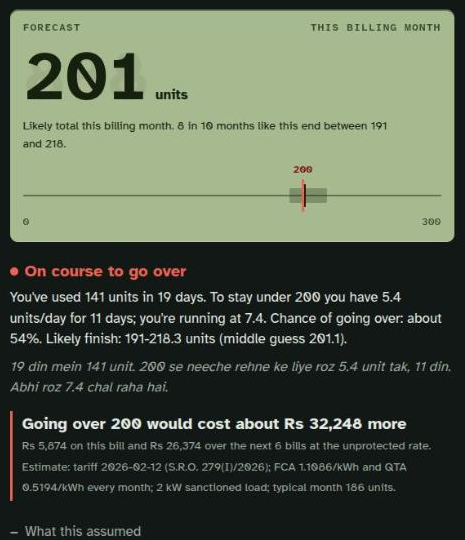
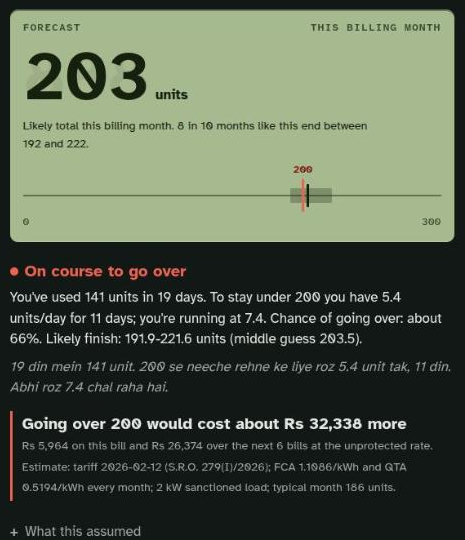
results: live Render check with keys (blend forecast, Gemma photo, refusal, bill photo); new screenshots

diff --git a/docs/EVIDENCE.md b/docs/EVIDENCE.md
@@ -6,8 +6,8 @@ Rule: a category is declared only if its artifact exists. Numbers only from file
 |---|---|---|---|
 | TabPFN | `docs/RESULTS.md` (all 41 homes incl. `tabpfn_api`); pre-registered test in `docs/PROTOCOL-RESULTS.md`, `results/protocol-test.json` | `backtest --models naive,last_ratio,gbm,tabpfn_api`; `protocol --final` | done |
 | Session replay | `docs/SESSION.md`; `results/session-aggregate.json` (65 test-home cycles near 200, dev-only model); `results/session-api.json` (one cycle through `/api/forecast`) | `python scripts/replay_session.py aggregate` / `api URL` | done (replay of real PRECON homes, not a live family) |
-| TabPFN (live) | Screenshot of the deployed page with the calibrated blend band | Render env `FORECAST_BACKEND=blend` | pending (Render) |
-| Render | https://slabwatch-ojcn.onrender.com; `render.yaml`; `/healthz` screenshot; `results/render-check-20261025.json` (wake-up 32.9 s) | Blueprint deploy | live (backend `gbm`, no secrets yet). First check: `/api/forecast` failed with Open-Meteo 429 on Render's shared IPs; climatology fallback fixes it once deployed (TO VERIFY live) |
+| TabPFN (live) | `results/render-live-forecast.json` (backend blend) and `docs/images/app-live.png` | Render env `FORECAST_BACKEND=blend` | done |
+| Render | https://slabwatch-ojcn.onrender.com; `render.yaml`; `/healthz` screenshot; `results/render-check-20261025.json`, `results/render-check-keys-20261025.json` | Blueprint deploy; keys as Render Secret Files | live: backend `blend`, Gemma photo reading on; forecast, meter photo, refusal and bill photo checked live 2026-10-25 |
 | Gemma (meter) | `results/gemma/meter-eval.json` (+ `-v1`), one JSON per photo; truth in `eval/meter_truth.json` (17 CC photos) | `python scripts/eval_meters.py data/demo_meters` | done on demo photos; real household photos pending |
 | Gemma (bill) | `results/bill-eval.json`; truth in `eval/bill_truth.json` (public sample bills); `results/session-bill-photo.json` (KE specimen through `/api/bill-photo`) | `python scripts/eval_bills.py data/sample_bills` | done on public samples |
 | Temporal | logic: `tests/test_workflow.py` (time-skipping); dev-server smoke run (nudge -> signal -> forecast -> ntfy -> timer) noted in `memory.md` | `temporal server start-dev`, `worker`, `start-cycle` | smoke run done; UI screenshot + kill-and-resume log pending |
